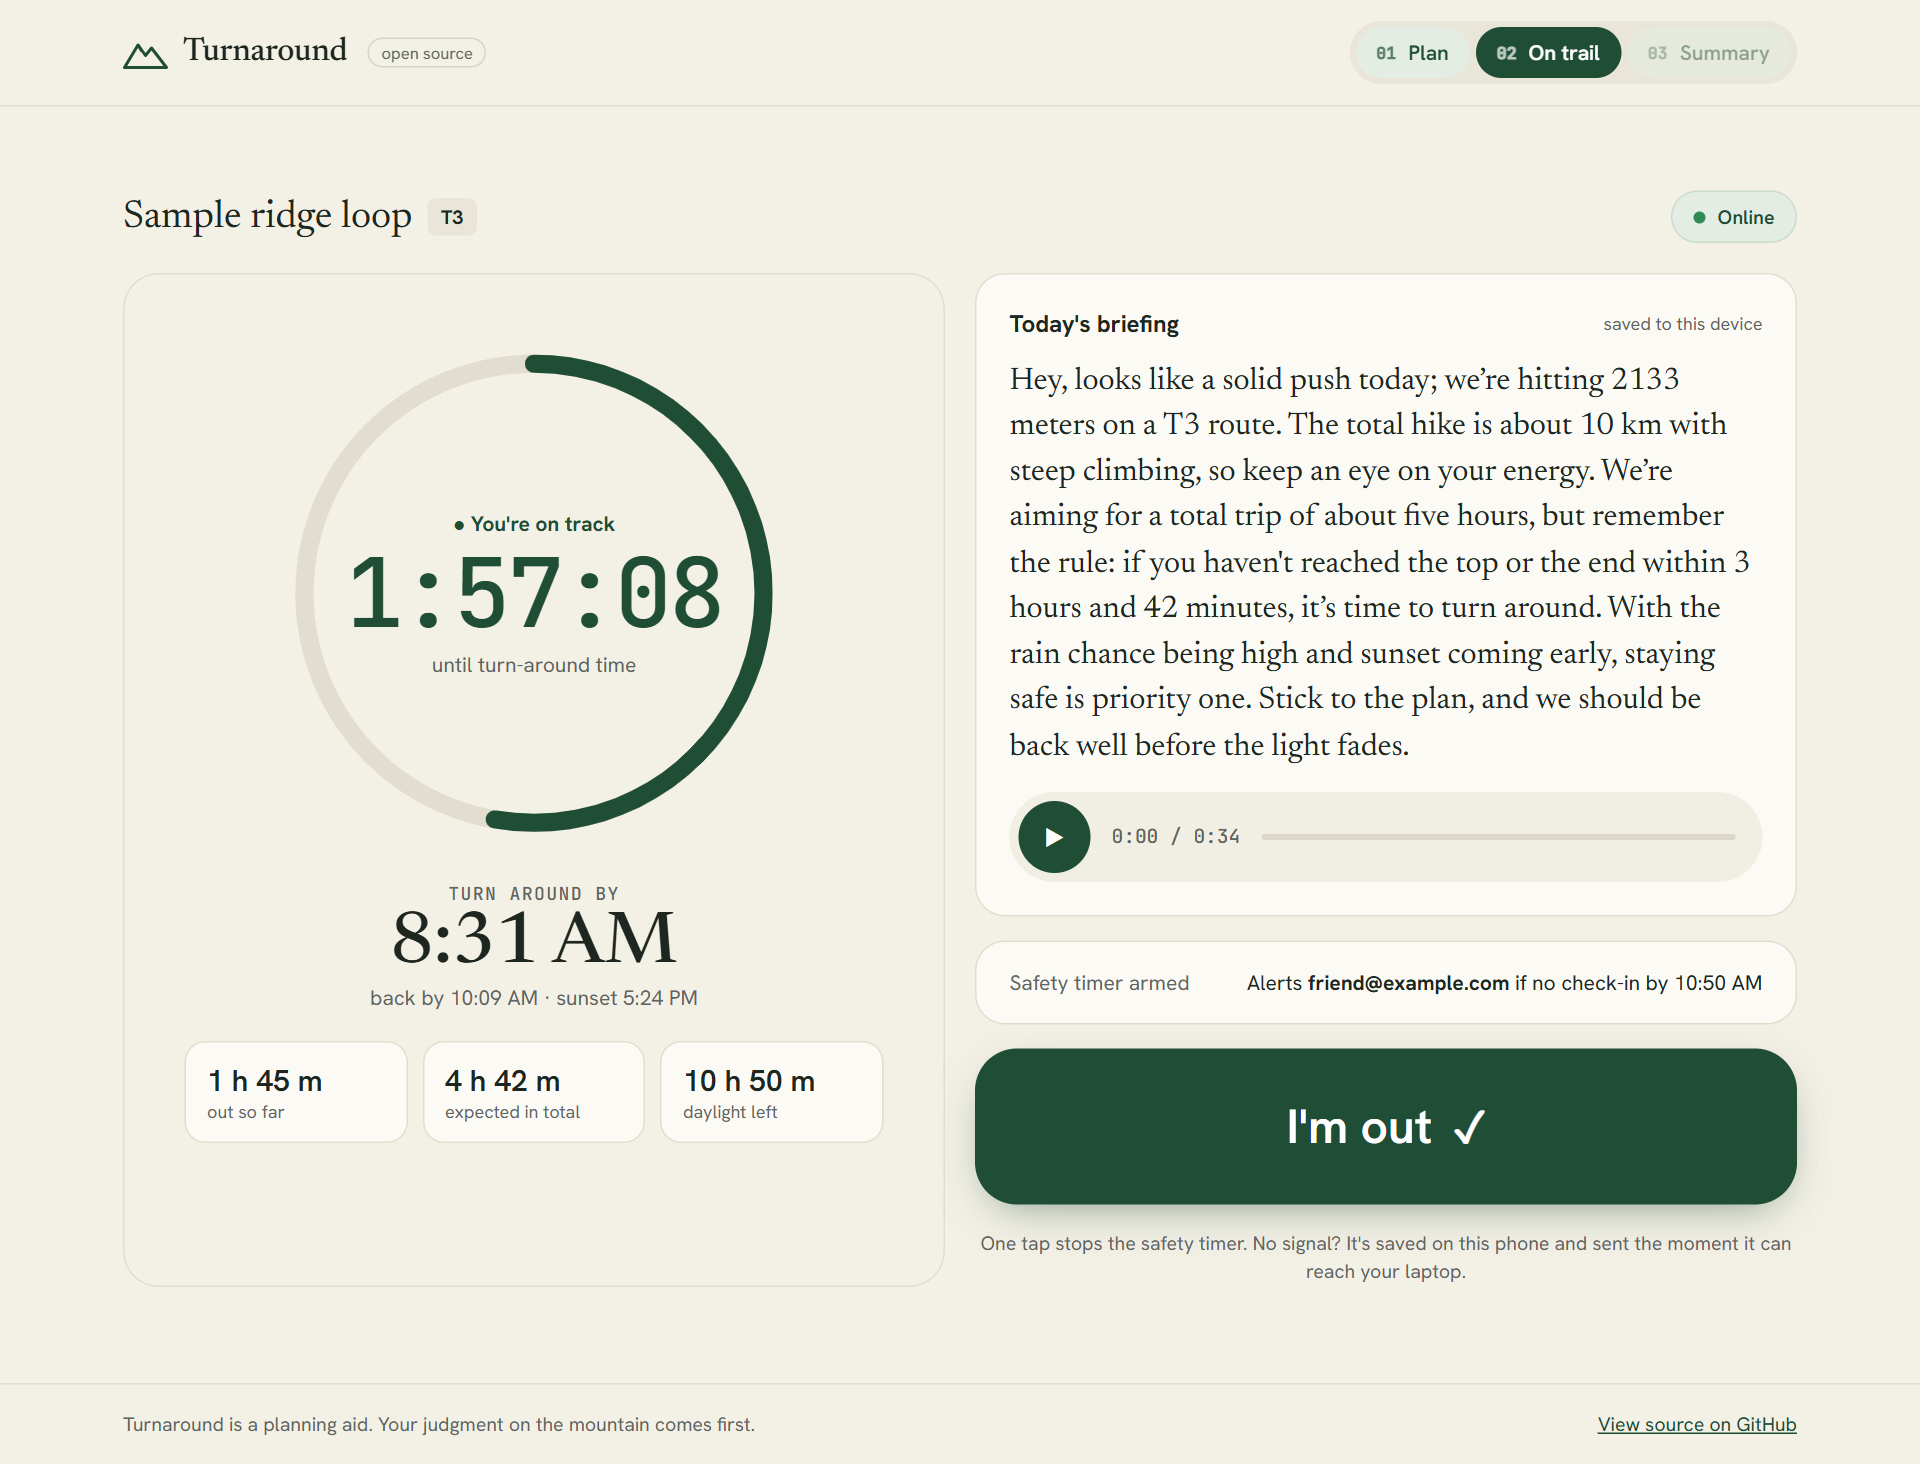
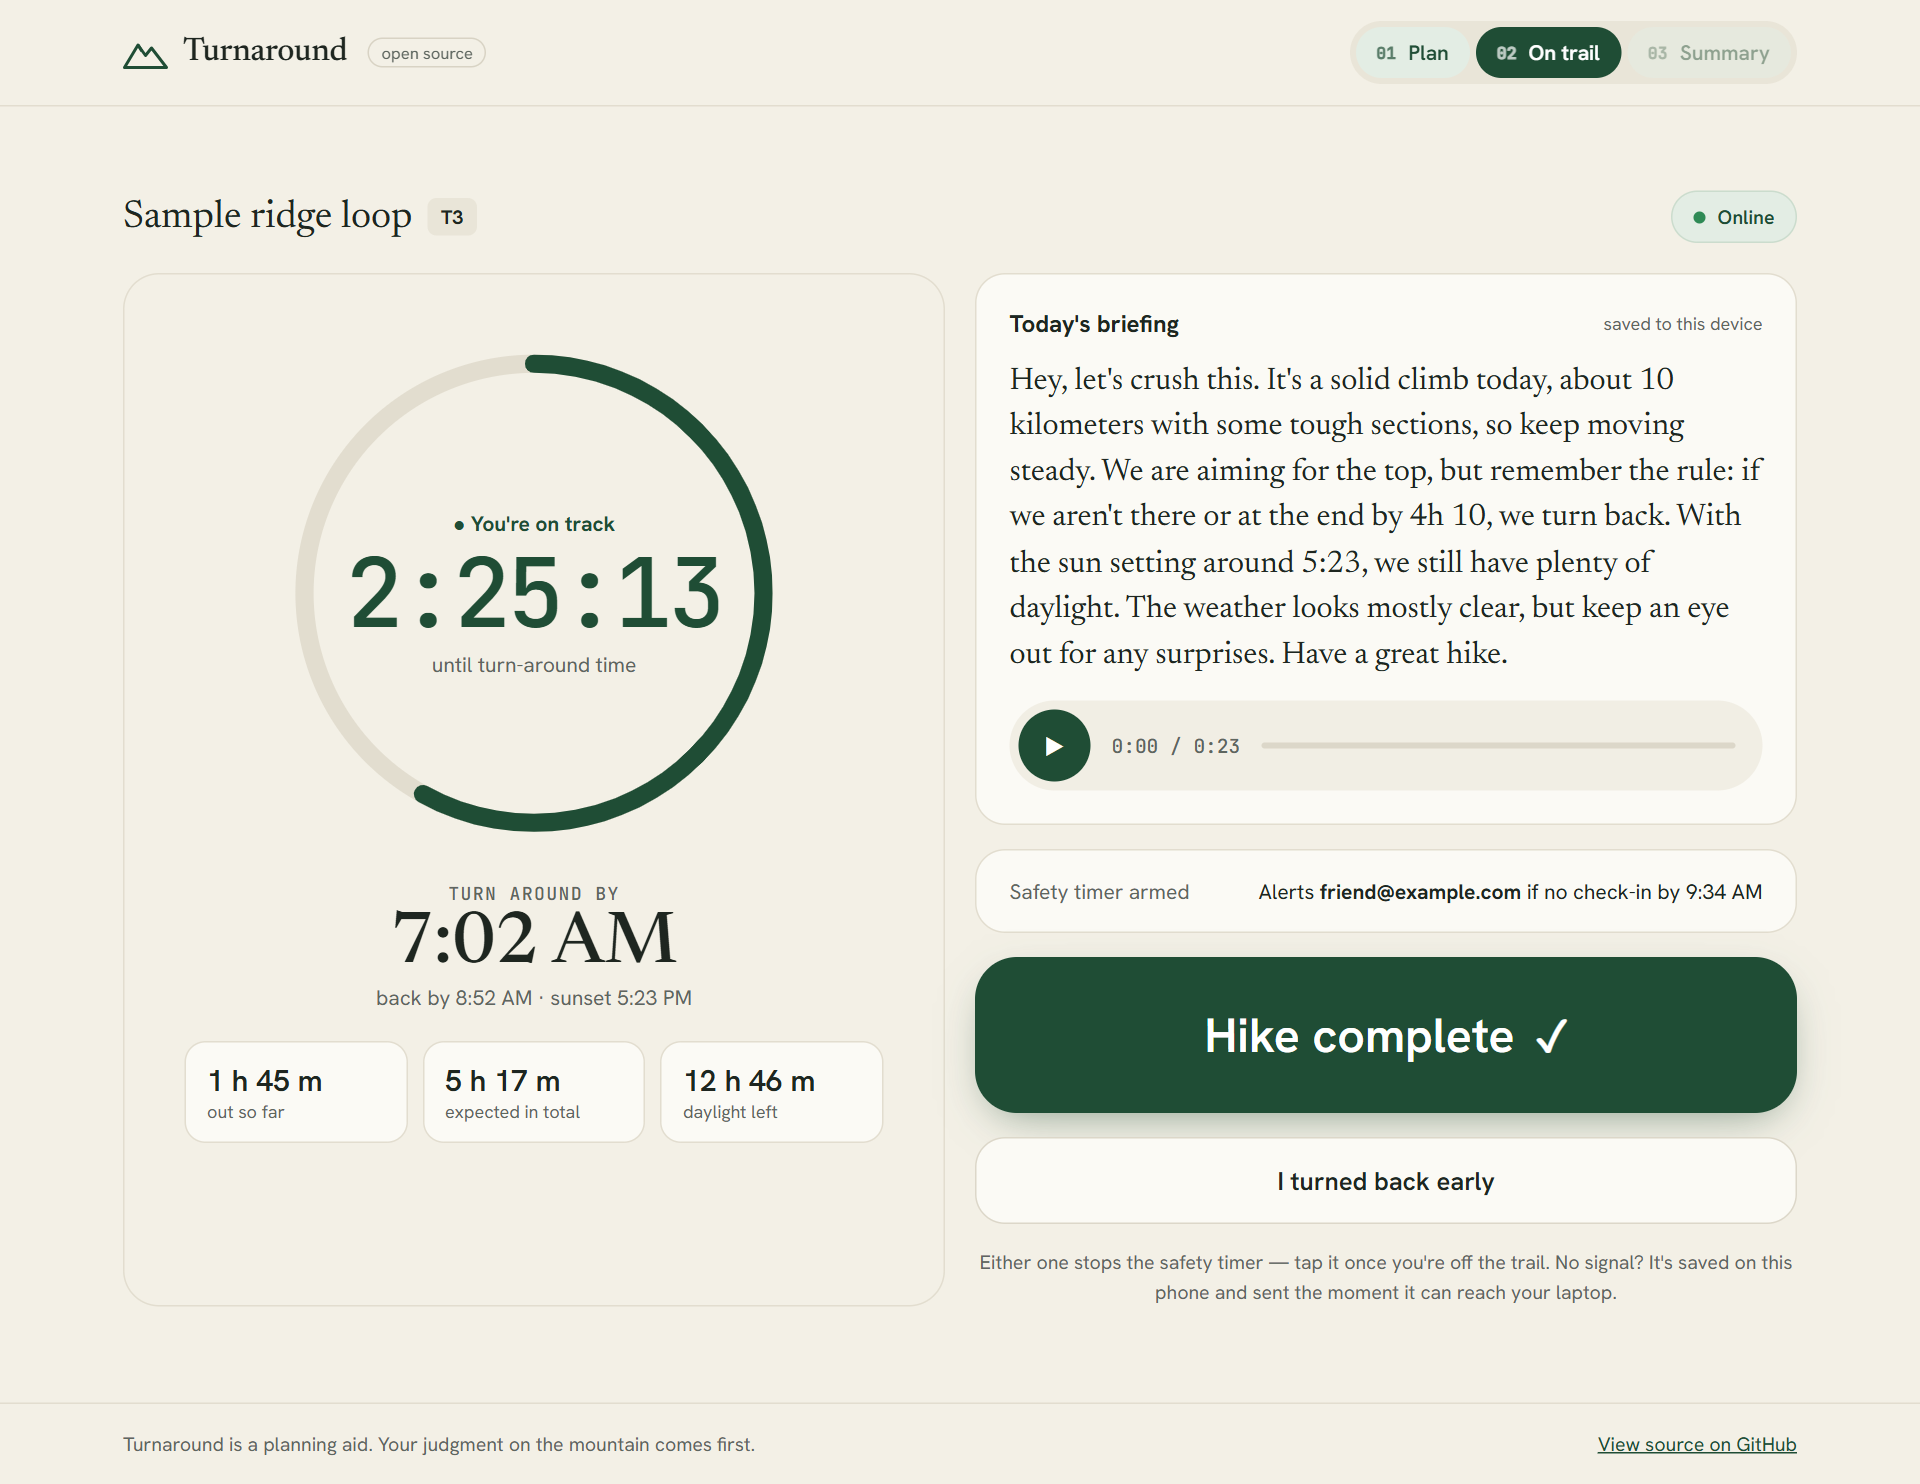
docs: Kokoro voice, turning back, refreshed screenshots
- README, component docs and tools/README describe Kokoro (with the model
  download) and the two check-in buttons; the agent CLI keeps Piper
- screenshots re-captured with the new buttons, plus the turned-back summary

diff --git a/README.md b/README.md
@@ -12,7 +12,8 @@ Built for the [Hacktoberfest Open-Source AI Challenge: Week 1](https://dev.to/ch
 
 - **Predict** — TabPFN, in context on 7,186 real hikes from hikr.org, estimates your moving time as a range. A personal pace factor — your finished hikes against the crowd's estimate for the same routes — tunes it to you from your first check-in. Your planned breaks are added on top.
 - **Turn around** — three moments per trip: *turn around by* (not at the top or the far end by then? head back), *back by* (the 90th percentile — 9 in 10 hikes like yours finish sooner), checked against sunset.
-- **Brief** — Gemma 4, running on your own machine, turns the numbers into a plain-language briefing, spoken aloud with Piper and saved to your phone before you leave.
+- **Brief** — Gemma 4, running on your own machine, turns the numbers into a plain-language briefing, spoken aloud by Kokoro (an open 82M-parameter voice model, on your machine) and saved to your phone before you leave.
+- **Check in** — *Hike complete* or *I turned back early*. Both stop the safety timer; only completed hikes tune your pace factor, because a turned-back time says nothing fair about the whole route.
 - **Watch** — a Temporal safety timer waits for your check-in. If you're still out well past your back-by time (the 95th percentile + breaks + 30 min), it emails your contact the plan, the route, and a map link to where you set off — even if the server restarts mid-trip. Check in late and they get an all-clear.
 
 <p align="center">
@@ -23,10 +24,11 @@ Built for the [Hacktoberfest Open-Source AI Challenge: Week 1](https://dev.to/ch
 <p align="center"><sub>Captured from the running app with the synthetic <a href="data/sample-route.gpx">sample route</a>. The trail and summary shots fast-forward the trip clock to show a mid-hike and a finish.</sub></p>
 
 <details>
-<summary>More screens — no signal on the trail, and a timer that failed to arm</summary>
+<summary>More screens — no signal on the trail, a timer that failed to arm, turning back</summary>
 <p align="center">
   <img src="docs/screenshots/checkin-offline-phone.png" width="240" alt="Check-in saved on the phone while offline">
   <img src="docs/screenshots/timer-not-armed-phone.png" width="240" alt="Red banner: safety timer NOT armed, with a retry">
+  <img src="docs/screenshots/summary-turned-back-phone.png" width="240" alt="Turned back: good call, no pace-factor change">
   <img src="docs/screenshots/trail-desktop.png" width="480" alt="On-trail screen on a laptop">
 </p>
 </details>
@@ -68,7 +70,7 @@ flowchart LR
   subgraph laptop["Your laptop: the whole server"]
     app["App<br/>React + Vite"] -->|"/api"| svc["Prediction service<br/>FastAPI · TabPFN · SQLite"]
     svc -->|"briefing"| gemma["Gemma 4<br/>via Ollama"]
-    svc -->|"spoken audio"| piper["Piper TTS"]
+    svc -->|"spoken audio"| tts["Kokoro TTS<br/>ONNX"]
     svc -->|"arm timer · check-in signal"| tmp[("Temporal server<br/>persistent store")]
     tmp <--> wk["Worker<br/>tripWorkflow"]
   end
@@ -114,7 +116,7 @@ itself (a Windows Update reboot included), not just of the worker.
 
 Plan a hike in the app — no GPX handy? [`data/sample-route.gpx`](data/sample-route.gpx) is a
 synthetic demo loop. Start arms the Temporal timer, the trail screen speaks the briefing, and
-"I'm out" checks you in. The agent CLI (`npx tsx agent/src/cli.ts --gpx data/sample-route.gpx --grade 3`)
+"Hike complete" — or "I turned back early" — checks you in. The agent CLI (`npx tsx agent/src/cli.ts --gpx data/sample-route.gpx --grade 3`)
 runs the same plan from a terminal; curl recipes live in [workflows/README.md](workflows/README.md).
 
 ## Tests
@@ -138,7 +140,7 @@ The laptop is the server, so your phone has to reach it from the trail:
 - **Keep the laptop awake and online** for the whole hike — it runs the timer and sends the email.
   Plugged in: `powercfg /change standby-timeout-ac 0` (restore later with your usual value).
 - **Plan while you have signal.** The briefing and its audio are saved to the phone when you plan.
-  On the trail, keep the tab open: with no signal, "I'm out" is saved on the phone and sent the
+  On the trail, keep the tab open: with no signal, your check-in is saved on the phone and sent the
   moment it can reach the laptop. (A page *reload* needs signal — there's no offline web cache.)
 
 **Missed-check-in drill:** open the app as `http://…:5173/?drill=120` — the contact is emailed

diff --git a/tools/README.md b/tools/README.md
@@ -4,7 +4,23 @@ Local binaries and models for Turnaround. **Nothing in this folder is committed*
 it's all re-fetchable with the commands below (network note: use IPv4; see README
 troubleshooting — `curl -4`).
 
-## Piper TTS (open-source text-to-speech)
+## Kokoro TTS (the briefing voice)
+
+[Kokoro-82M](https://github.com/thewh1teagle/kokoro-onnx) — an open (Apache-2.0) 82M-parameter
+voice model, run through onnxruntime inside the prediction service (`pip` package `kokoro-onnx`,
+already in `prediction/requirements.txt`). Model files:
+
+```bash
+mkdir -p kokoro
+curl -4L https://github.com/thewh1teagle/kokoro-onnx/releases/download/model-files-v1.0/kokoro-v1.0.onnx -o kokoro/kokoro-v1.0.onnx   # 325 MB
+curl -4L https://github.com/thewh1teagle/kokoro-onnx/releases/download/model-files-v1.0/voices-v1.0.bin -o kokoro/voices-v1.0.bin     # 28 MB
+```
+
+Default voice `af_heart` (54 available — `KOKORO_VOICE`). On this laptop's CPU it renders 18.6 s
+of speech in ~12 s after a ~4 s model load. If the files are missing or Kokoro fails, the service
+falls back to Piper.
+
+## Piper TTS (fallback voice; the agent CLI's voice)
 
 ```bash
 mkdir -p piper/voice

diff --git a/app/README.md b/app/README.md
@@ -10,7 +10,8 @@ The Turnaround web app — three screens, mobile-friendly, no UI framework:
 - **On trail** — a ring that counts down to turn-around, then to back-by, then
   to the alert; the briefing and audio from the phone's storage; the safety
   timer's real state (a red banner with a retry if it failed to arm); and the
-  big **I'm out** button. With no signal, the check-in is saved on the phone
+  **Hike complete ✓** / **I turned back early** buttons (both stop the timer;
+  only completed hikes train the pace factor). With no signal, the check-in is saved on the phone
   and sent as soon as it can reach the laptop. A refreshed or discarded tab
   comes back to this screen.
 - **Summary** — predicted vs actual (breaks included on both sides), whether

diff --git a/workflows/README.md b/workflows/README.md
@@ -48,7 +48,7 @@ gone out (`alert_fired`). The CLI still works for tests:
 ```bash
 # plan + start a trip in the prediction service first (it must be "active"), then:
 npx tsx src/cli.ts start --trip 2 [--deadline 30]      # 30s override for tests
-npx tsx src/cli.ts checkin --workflow trip-2           # "I'm out"
+npx tsx src/cli.ts checkin --workflow trip-2           # the check-in
 ```
 
 ## Proof — five scenarios (evidence in `docs/evidence/`)

diff --git a/agent/README.md b/agent/README.md
@@ -14,7 +14,8 @@ endpoint. Everything runs on one machine.
    Naismith's outbound share of that (the same rule as the service); margin against sunset
 
 Then **Gemma 4** writes a spoken-style briefing from the numbers, and **Piper** renders
-it to a wav the hiker can play offline on the trail.
+it to a wav (the CLI keeps the zero-dependency Piper binary; the app's voice is Kokoro, run
+by the prediction service).
 
 ## Run
 
